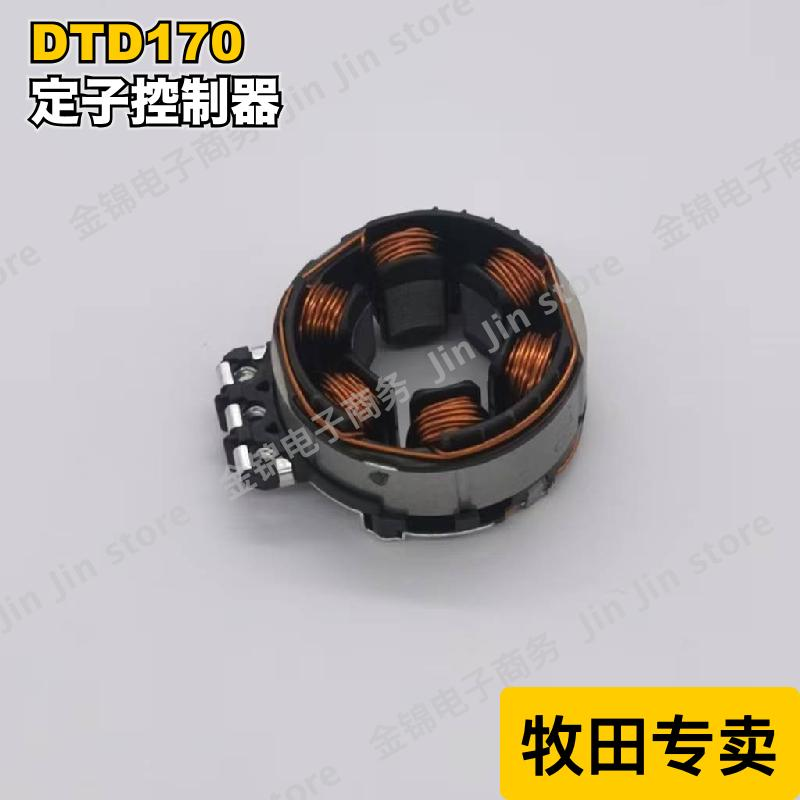
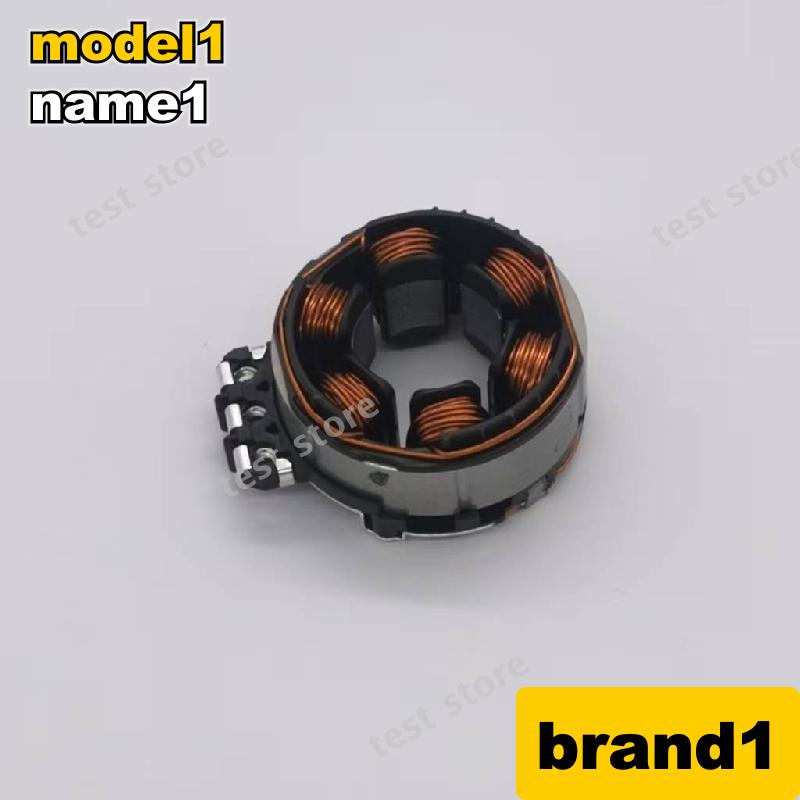
demo-debug1

diff --git a/src/main/java/com/LinHao/core/BatchProcessor.java b/src/main/java/com/LinHao/core/BatchProcessor.java
@@ -31,7 +31,7 @@ public class BatchProcessor {
 
                     //処理器
                     ImageProcessor normalizer = new SizeNormalizer();
-                    ImageProcessor watermarkAdder = new WatermarkAdder("金锦电子商务  Jin Jin store");
+                    ImageProcessor watermarkAdder = new WatermarkAdder("test store");
                     ImageProcessor captionDecorator = new CaptionDecorator(
                         config.getProductModel(), 
                         config.getProductName(),
